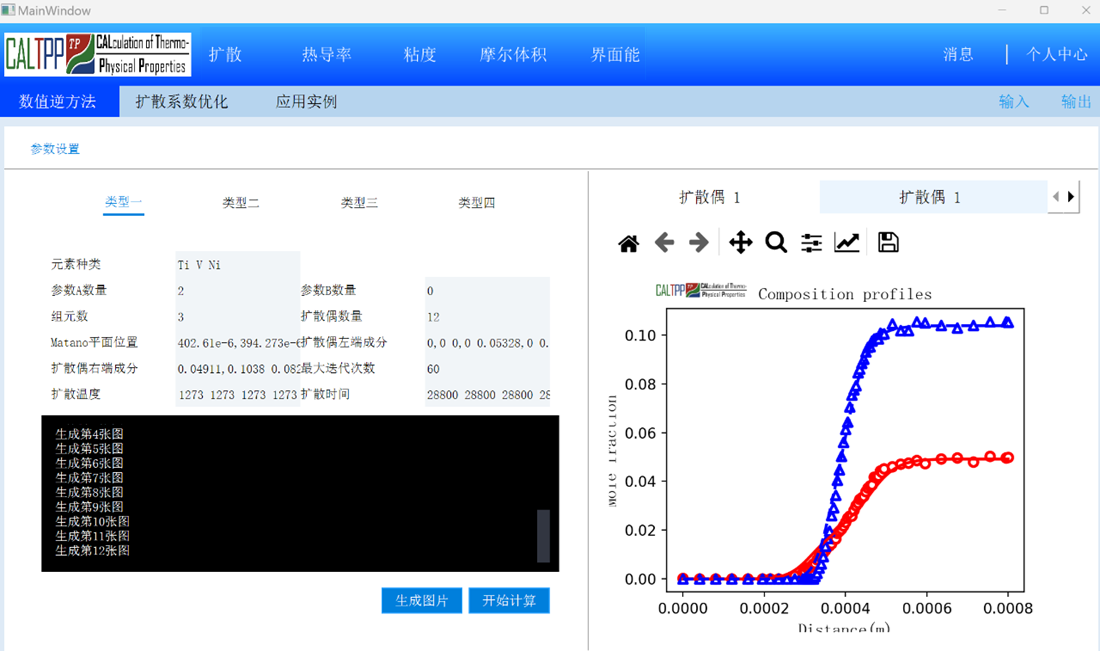
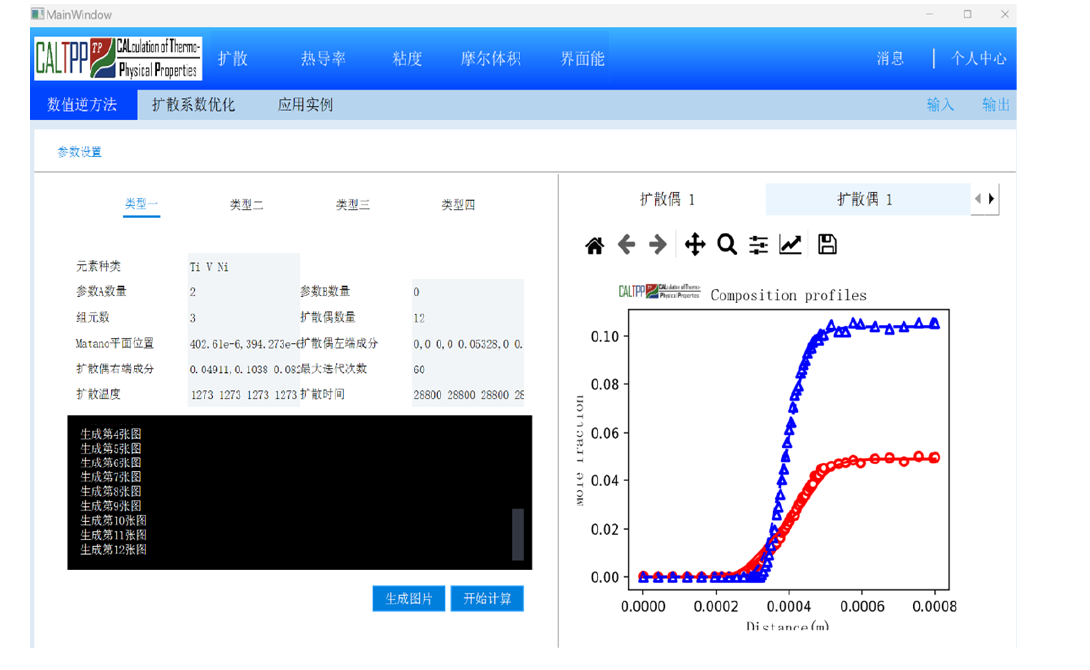
Use PDF-cropped result images for software pages

Changed region(s): [[0.0, 0.0, 1.0, 1.0], [0.156, 0.3994, 0.2183, 0.4608]]

diff --git a/i18n.js b/i18n.js
@@ -1161,9 +1161,9 @@ const translations = {
                     fr: "Simulation de diffusion multicomposant"
                 },
                 interdiffusion: {
-                    zh: "互扩散系数高通量计算",
-                    en: "High-throughput interdiffusion coefficient calculation",
-                    fr: "Calcul haut debit des coefficients d'interdiffusion"
+                    zh: "互扩散系数计算",
+                    en: "Interdiffusion coefficient calculation",
+                    fr: "Calcul des coefficients d'interdiffusion"
                 },
                 twoDimensional: {
                     zh: "二维扩散模拟",
@@ -1171,8 +1171,8 @@ const translations = {
                     fr: "Simulation de diffusion bidimensionnelle"
                 },
                 movingBoundary: {
-                    zh: "移动相界扩散模拟",
-                    en: "Moving phase-boundary diffusion simulation",
+                    zh: "两相扩散的移动相边界模拟",
+                    en: "Moving phase-boundary simulation for two-phase diffusion",
                     fr: "Simulation de diffusion avec interface de phase mobile"
                 },
                 compoundGrowth: {
@@ -1181,9 +1181,9 @@ const translations = {
                     fr: "Croissance par diffusion de composes lineaires"
                 },
                 carburizing: {
-                    zh: "渗碳 / 渗氮模拟",
-                    en: "Carburizing and nitriding simulation",
-                    fr: "Simulation de cementation et de nitruration"
+                    zh: "钢铁表面渗碳模拟",
+                    en: "Steel surface carburizing simulation",
+                    fr: "Simulation de cementation de surface de l'acier"
                 },
                 interface: {
                     zh: "用户操作界面",
@@ -1336,13 +1336,13 @@ const translations = {
             },
             demos: {
                 pureMetal: {
-                    zh: "纯金属液态粘度",
+                    zh: "Ag、Cu、Au 纯金属粘度",
                     en: "Liquid viscosity of pure metals",
                     fr: "Viscosite liquide des metaux purs"
                 },
                 ternaryAlloy: {
-                    zh: "三元合金液态粘度",
-                    en: "Liquid viscosity of ternary alloys",
+                    zh: "Ag-Cu-Au 三元合金粘度",
+                    en: "Viscosity of Ag-Cu-Au ternary alloys",
                     fr: "Viscosite liquide des alliages ternaires"
                 },
                 pureOxide: {
@@ -1361,8 +1361,8 @@ const translations = {
                     fr: "Viscosite liquide de CaO-Al2O3-SiO2"
                 },
                 processWindow: {
-                    zh: "粘度工艺窗口设计",
-                    en: "Viscosity process-window design",
+                    zh: "根据煤灰渣粘度设计成分工艺窗口",
+                    en: "Composition process-window design from coal-ash slag viscosity",
                     fr: "Conception de fenetre de procede par viscosite"
                 },
                 conductivitySurface: {
@@ -1551,9 +1551,9 @@ const translations = {
                     fr: "Evolution des defauts aux interfaces precipite-matrice"
                 },
                 spinodal: {
-                    zh: "界面内低维调幅分解",
-                    en: "Low-dimensional spinodal decomposition inside interfaces",
-                    fr: "Decomposition spinodale de basse dimension dans les interfaces"
+                    zh: "晶界内部低维调幅分解",
+                    en: "Low-dimensional spinodal decomposition inside grain boundaries",
+                    fr: "Decomposition spinodale de basse dimension dans les joints de grains"
                 }
             },
             advantages: {
@@ -1716,8 +1716,8 @@ const translations = {
             },
             demos: {
                 spinodal: {
-                    zh: "调幅分解",
-                    en: "Spinodal decomposition",
+                    zh: "(Ti, Hf)C 调幅分解",
+                    en: "(Ti, Hf)C spinodal decomposition",
                     fr: "Decomposition spinodale"
                 },
                 sintering: {
@@ -1726,8 +1726,8 @@ const translations = {
                     fr: "Frittage en phase liquide"
                 },
                 electrode: {
-                    zh: "电极充放电相变模拟",
-                    en: "Electrode charge-discharge phase transformation simulation",
+                    zh: "CuxLiySn 电极充放电",
+                    en: "CuxLiySn electrode charge-discharge",
                     fr: "Simulation des transformations de phase lors de la charge-decharge d'electrodes"
                 },
                 crack: {
@@ -1741,13 +1741,13 @@ const translations = {
                     fr: "Vue tridimensionnelle de la propagation de fissures"
                 },
                 discontinuousPrecipitation: {
-                    zh: "非连续析出",
-                    en: "Discontinuous precipitation",
+                    zh: "U-Nb 不连续析出",
+                    en: "U-Nb discontinuous precipitation",
                     fr: "Precipitation discontinue"
                 },
                 elastoplastic: {
-                    zh: "非均质结构弹塑性验证",
-                    en: "Elastoplastic validation of heterogeneous structures",
+                    zh: "弹性结构非均匀体系理想弹塑性求解验证",
+                    en: "Ideal elastoplastic validation for heterogeneous elastic structures",
                     fr: "Validation elastoplastique de structures heterogenes"
                 },
                 grain: {
@@ -1915,20 +1915,35 @@ const translations = {
                 fr: "Resultats de calcul representatifs"
             },
             demos: {
-                thermalStress: {
-                    zh: "硬质合金热应力模拟",
+                wcThermalStress: {
+                    zh: "硬质合金 WC 相热应力模拟",
                     en: "Thermal stress simulation of cemented carbides",
                     fr: "Simulation des contraintes thermiques des carbures cementes"
                 },
+                binderThermalStress: {
+                    zh: "硬质合金粘结相热应力模拟",
+                    en: "Thermal stress simulation of the binder phase in cemented carbides",
+                    fr: "Simulation des contraintes thermiques de la phase liante des carbures cementes"
+                },
                 tension: {
-                    zh: "单轴拉伸模拟",
-                    en: "Uniaxial tension simulation",
+                    zh: "Al-Mg-Si 合金单轴拉伸模拟",
+                    en: "Uniaxial tension simulation of Al-Mg-Si alloys",
                     fr: "Simulation de traction uniaxiale"
+                },
+                crack: {
+                    zh: "中高强钢裂纹扩展模拟",
+                    en: "Crack-growth simulation of medium- and high-strength steels",
+                    fr: "Simulation de propagation de fissures dans les aciers a moyenne et haute resistance"
                 },
                 cyclic: {
                     zh: "循环加载模拟",
                     en: "Cyclic loading simulation",
                     fr: "Simulation de chargement cyclique"
+                },
+                tensileCurve: {
+                    zh: "单轴拉伸模拟结果",
+                    en: "Uniaxial tension simulation result",
+                    fr: "Resultat de simulation de traction uniaxiale"
                 },
                 hardness: {
                     zh: "硬度模拟",

diff --git a/cpcp.html b/cpcp.html
@@ -80,24 +80,32 @@
                         <h2 data-i18n="softwareDetails.cpcp.demoTitle">代表性计算结果</h2>
                         <div class="demo-gallery">
                             <figure class="demo-card">
-                                <img src="assets/software-demos/cpcp/thermal-stress-map.png" alt="CPCP 硬质合金热应力模拟结果" loading="lazy" />
-                                <figcaption data-i18n="softwareDetails.cpcp.demos.thermalStress">硬质合金热应力模拟</figcaption>
+                                <img src="assets/software-demos/cpcp/wc-thermal-stress.png" alt="CPCP 硬质合金 WC 相热应力模拟结果" loading="lazy" />
+                                <figcaption data-i18n="softwareDetails.cpcp.demos.wcThermalStress">硬质合金 WC 相热应力模拟</figcaption>
+                            </figure>
+                            <figure class="demo-card">
+                                <img src="assets/software-demos/cpcp/binder-thermal-stress.png" alt="CPCP 硬质合金粘结相热应力模拟结果" loading="lazy" />
+                                <figcaption data-i18n="softwareDetails.cpcp.demos.binderThermalStress">硬质合金粘结相热应力模拟</figcaption>
                             </figure>
                             <figure class="demo-card">
                                 <img src="assets/software-demos/cpcp/uniaxial-tension.png" alt="CPCP 单轴拉伸模拟结果" loading="lazy" />
-                                <figcaption data-i18n="softwareDetails.cpcp.demos.tension">单轴拉伸模拟</figcaption>
+                                <figcaption data-i18n="softwareDetails.cpcp.demos.tension">Al-Mg-Si 合金单轴拉伸模拟</figcaption>
+                            </figure>
+                            <figure class="demo-card">
+                                <img src="assets/software-demos/cpcp/crack-growth.png" alt="CPCP 中高强钢裂纹扩展模拟结果" loading="lazy" />
+                                <figcaption data-i18n="softwareDetails.cpcp.demos.crack">中高强钢裂纹扩展模拟</figcaption>
                             </figure>
                             <figure class="demo-card">
                                 <img src="assets/software-demos/cpcp/cyclic-loading.png" alt="CPCP 循环加载模拟结果" loading="lazy" />
                                 <figcaption data-i18n="softwareDetails.cpcp.demos.cyclic">循环加载模拟</figcaption>
                             </figure>
                             <figure class="demo-card">
-                                <img src="assets/software-demos/cpcp/hardness-simulation.png" alt="CPCP 硬度模拟结果" loading="lazy" />
-                                <figcaption data-i18n="softwareDetails.cpcp.demos.hardness">硬度模拟</figcaption>
+                                <img src="assets/software-demos/cpcp/tensile-curve.png" alt="CPCP 单轴拉伸模拟曲线结果" loading="lazy" />
+                                <figcaption data-i18n="softwareDetails.cpcp.demos.tensileCurve">单轴拉伸模拟结果</figcaption>
                             </figure>
                             <figure class="demo-card">
-                                <img src="assets/software-demos/cpcp/nanoindentation.png" alt="CPCP 纳米压痕模拟结果" loading="lazy" />
-                                <figcaption data-i18n="softwareDetails.cpcp.demos.nanoindentation">纳米压痕模拟</figcaption>
+                                <img src="assets/software-demos/cpcp/hardness-simulation.png" alt="CPCP 硬度模拟结果" loading="lazy" />
+                                <figcaption data-i18n="softwareDetails.cpcp.demos.hardness">硬度模拟</figcaption>
                             </figure>
                             <figure class="demo-card">
                                 <img src="assets/software-demos/cpcp/user-interface.png" alt="CPCP 晶体塑性有限元软件用户操作界面" loading="lazy" />

diff --git a/caltpp-diffusion.html b/caltpp-diffusion.html
@@ -89,7 +89,7 @@
                             </figure>
                             <figure class="demo-card">
                                 <img src="assets/software-demos/caltpp-diffusion/interdiffusion-coefficients.png" alt="CALTPP 扩散互扩散系数高通量计算结果" loading="lazy" />
-                                <figcaption data-i18n="softwareDetails.caltppDiffusion.demos.interdiffusion">互扩散系数高通量计算</figcaption>
+                                <figcaption data-i18n="softwareDetails.caltppDiffusion.demos.interdiffusion">互扩散系数计算</figcaption>
                             </figure>
                             <figure class="demo-card">
                                 <img src="assets/software-demos/caltpp-diffusion/two-dimensional-diffusion.png" alt="CALTPP 扩散二维扩散模拟结果" loading="lazy" />
@@ -97,7 +97,7 @@
                             </figure>
                             <figure class="demo-card">
                                 <img src="assets/software-demos/caltpp-diffusion/moving-phase-boundary.png" alt="CALTPP 扩散移动相界模拟结果" loading="lazy" />
-                                <figcaption data-i18n="softwareDetails.caltppDiffusion.demos.movingBoundary">移动相界扩散模拟</figcaption>
+                                <figcaption data-i18n="softwareDetails.caltppDiffusion.demos.movingBoundary">两相扩散的移动相边界模拟</figcaption>
                             </figure>
                             <figure class="demo-card">
                                 <img src="assets/software-demos/caltpp-diffusion/linear-compound-growth.png" alt="CALTPP 扩散线性化合物扩散生长结果" loading="lazy" />
@@ -105,7 +105,7 @@
                             </figure>
                             <figure class="demo-card">
                                 <img src="assets/software-demos/caltpp-diffusion/carburizing-simulation.png" alt="CALTPP 扩散渗碳渗氮模拟结果" loading="lazy" />
-                                <figcaption data-i18n="softwareDetails.caltppDiffusion.demos.carburizing">渗碳 / 渗氮模拟</figcaption>
+                                <figcaption data-i18n="softwareDetails.caltppDiffusion.demos.carburizing">钢铁表面渗碳模拟</figcaption>
                             </figure>
                             <figure class="demo-card">
                                 <img src="assets/software-demos/caltpp-diffusion/user-interface.png" alt="CALTPP 扩散软件用户操作界面" loading="lazy" />

diff --git a/mid-meso.html b/mid-meso.html
@@ -89,10 +89,6 @@
                                 <figcaption data-i18n="softwareDetails.midMeso.demos.crack">硬质合金裂纹扩展</figcaption>
                             </figure>
                             <figure class="demo-card">
-                                <img src="assets/software-demos/mid-meso/crack-3d-view.png" alt="MID-MESO 裂纹扩展三维视图结果" loading="lazy" />
-                                <figcaption data-i18n="softwareDetails.midMeso.demos.crack3d">裂纹扩展三维视图</figcaption>
-                            </figure>
-                            <figure class="demo-card">
                                 <img src="assets/software-demos/mid-meso/electrode-phase-transition.png" alt="MID-MESO 电极充放电相变模拟结果" loading="lazy" />
                                 <figcaption data-i18n="softwareDetails.midMeso.demos.electrode">电极充放电相变模拟</figcaption>
                             </figure>
@@ -107,10 +103,6 @@
                             <figure class="demo-card">
                                 <img src="assets/software-demos/mid-meso/elastoplastic-validation.png" alt="MID-MESO 非均质结构弹塑性验证结果" loading="lazy" />
                                 <figcaption data-i18n="softwareDetails.midMeso.demos.elastoplastic">非均质结构弹塑性验证</figcaption>
-                            </figure>
-                            <figure class="demo-card">
-                                <img src="assets/software-demos/mid-meso/grain-microstructure.png" alt="MID-MESO 晶粒微结构模拟结果" loading="lazy" />
-                                <figcaption data-i18n="softwareDetails.midMeso.demos.grain">晶粒微结构模拟</figcaption>
                             </figure>
                         </div>
                     </article>

diff --git a/caltpp-viscosity-thermal.html b/caltpp-viscosity-thermal.html
@@ -101,18 +101,6 @@
                                 <img src="assets/software-demos/caltpp-viscosity-thermal/slag-viscosity-window.png" alt="CALTPP 煤灰渣粘度工艺窗口设计结果" loading="lazy" />
                                 <figcaption data-i18n="softwareDetails.caltppViscosityThermal.demos.processWindow">粘度工艺窗口设计</figcaption>
                             </figure>
-                            <figure class="demo-card">
-                                <img src="assets/software-demos/caltpp-viscosity-thermal/conductivity-surface.png" alt="CALTPP 多元合金热导率曲面计算结果" loading="lazy" />
-                                <figcaption data-i18n="softwareDetails.caltppViscosityThermal.demos.conductivitySurface">多元合金热导率曲面</figcaption>
-                            </figure>
-                            <figure class="demo-card">
-                                <img src="assets/software-demos/caltpp-viscosity-thermal/wc-composite-conductivity.png" alt="CALTPP WC 复合材料热导率评估结果" loading="lazy" />
-                                <figcaption data-i18n="softwareDetails.caltppViscosityThermal.demos.composite">多相复合材料热导率</figcaption>
-                            </figure>
-                            <figure class="demo-card">
-                                <img src="assets/software-demos/caltpp-viscosity-thermal/conductivity-reverse-design.png" alt="CALTPP 热导率反向设计结果" loading="lazy" />
-                                <figcaption data-i18n="softwareDetails.caltppViscosityThermal.demos.reverseDesign">热导率反向设计</figcaption>
-                            </figure>
                         </div>
                     </article>
 

diff --git a/mid-nano.html b/mid-nano.html
@@ -100,7 +100,7 @@
                             </figure>
                             <figure class="demo-card">
                                 <img src="assets/software-demos/mid-nano/low-dimensional-spinodal.png" alt="MID-NANO 界面内低维调幅分解结果" loading="lazy" />
-                                <figcaption data-i18n="softwareDetails.midNano.demos.spinodal">界面内低维调幅分解</figcaption>
+                                <figcaption data-i18n="softwareDetails.midNano.demos.spinodal">晶界内部低维调幅分解</figcaption>
                             </figure>
                         </div>
                     </article>
